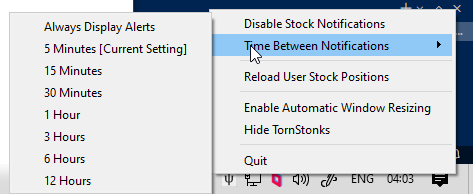
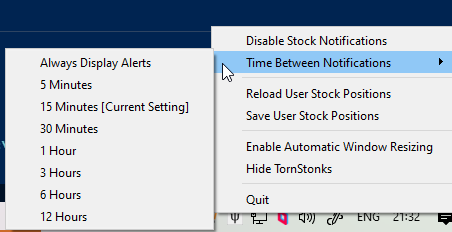
Fix taxation and total sale being incorrect

diff --git a/main.py b/main.py
@@ -6,6 +6,7 @@ import time
 import threading
 import pprint
 import csv
+import math
 
 from datetime import datetime, date
 from PyQt5 import QtWidgets
@@ -105,7 +106,8 @@ def get_latest_stocks():
 			App.update_table(ex, False)
 		#print("Successfully updated stocks from Tornsy")
 	else:
-		raise ValueError("Server returned error code that was not OK 200.")
+		write_notification_to_log("[WARNING] Server returned error code: " + tornsy_data.status_code)
+		App.failed_stock_update(ex)
 
 # Get initial data
 get_latest_stocks()
@@ -124,14 +126,14 @@ class App(QWidget):
 		self.left = 0
 		self.top = 0
 		self.width = 800
-		self.height = 1020
+		self.height = 200
 		self.setWindowIcon(QIcon("tornstonks.ico"))
 		self.update_timer = QTimer(self)
 		self.update_timer.timeout.connect(self.table_update)
 		self.update_timer.start(1000)
-		self.save_timer = QTimer(self)
-		self.save_timer.timeout.connect(self.save_data)
-		self.save_timer.start(60000)
+		#self.save_timer = QTimer(self)
+		#self.save_timer.timeout.connect(self.save_data)
+		#self.save_timer.start(60000)
 		self.tray_icon = QSystemTrayIcon(self)
 		self.statusBar = QStatusBar()
 		self.tray_icon.setIcon(QIcon("tornstonks.ico"))
@@ -238,6 +240,9 @@ class App(QWidget):
 		self.reload_user_stocks = QAction("Reload User Stock Positions")
 		self.reload_user_stocks.triggered.connect(self.reload_user_data)
 		self.tray_menu.addAction(self.reload_user_stocks)
+		self.save_user_stocks = QAction("Save User Stock Positions")
+		self.save_user_stocks.triggered.connect(self.save_data)
+		self.tray_menu.addAction(self.save_user_stocks)
 		self.tray_menu.addSeparator()
 
 		# Window Configuration
@@ -376,13 +381,14 @@ class App(QWidget):
 			"30m Ago",                  #5
 			"Gain/Loss %",              #6
 			"Purchase Total",           #7
-			"Pre Tax Gain/Loss",        #8
-			"Taxed Gain/Loss",          #9
+			"Total Gain/Loss",          #8
+			"Taxes Incurred",           #9
 			"Final Sale Value w/ Tax"]  #10
 		)
 		self.table_widget.move(0,0)
 		self.table_widget.setSizeAdjustPolicy(QtWidgets.QAbstractScrollArea.AdjustToContents)
 		self.table_widget.setUpdatesEnabled(True)
+		self.table_widget.setHorizontalScrollBarPolicy(1)
 		self.update_table(True)
 
 	def update_table(self, update_user_data):
@@ -444,9 +450,9 @@ class App(QWidget):
 						self.table_widget.setItem(y, 4, QTableWidgetItem("$"+str(item["price"])))
 						self.table_widget.setItem(y, 5, QTableWidgetItem("$"+str(item["interval"]["m30"]["price"])))
 						tax_res = float(user_data["shares"][y]) * float(item["price"])
-						self.table_widget.setItem(y, 8, QTableWidgetItem("$"+str("{:,.2f}".format((tax_res)-float(user_data["buy"][y])*float(user_data["shares"][y])))))
-						self.table_widget.setItem(y, 9, QTableWidgetItem("$"+str("{:,.2f}".format((tax_res * 0.999)-float(user_data["buy"][y])*float(user_data["shares"][y])))))
-						self.table_widget.setItem(y, 10, QTableWidgetItem("$"+str("{:,.2f}".format(tax_res * 0.999))))
+						self.table_widget.setItem(y, 8, QTableWidgetItem("$"+str("{:,}".format(math.floor(tax_res)-float(user_data["buy"][y])*float(user_data["shares"][y])))))
+						self.table_widget.setItem(y, 9, QTableWidgetItem("$"+str("{:,}".format(math.floor(tax_res-(tax_res * 0.999))))))
+						self.table_widget.setItem(y, 10, QTableWidgetItem("$"+str("{:,}".format(math.floor(tax_res * 0.999)))))
 			if not self.no_notification and y == (num_stonks - 1):
 				if self.not_recently_notified:
 					# This silences notifications when starting TornStonks
@@ -515,9 +521,9 @@ class App(QWidget):
 						self.table_widget.setItem(row, 6, QTableWidgetItem(str("{:.2f}".format(perc)) + "%"))
 						self.table_widget.setItem(row, 7, QTableWidgetItem("$"+str("{:,.2f}".format(float(user_data["shares"][row]) * float(user_data["buy"][row])))))
 						tax_res = float(user_data["shares"][row]) * curr_price
-						self.table_widget.setItem(row, 8, QTableWidgetItem("$"+str("{:,.2f}".format((tax_res)-float(user_data["buy"][row])*float(user_data["shares"][row])))))
-						self.table_widget.setItem(row, 9, QTableWidgetItem("$"+str("{:,.2f}".format((tax_res * 0.99)-float(user_data["buy"][row])*float(user_data["shares"][row])))))
-						self.table_widget.setItem(row, 10, QTableWidgetItem("$"+str("{:,.2f}".format(tax_res * 0.99))))
+						self.table_widget.setItem(row, 8, QTableWidgetItem("$"+str("{:,}".format(math.floor(tax_res-float(user_data["buy"][row])*float(user_data["shares"][row]))))))
+						self.table_widget.setItem(row, 9, QTableWidgetItem("$"+str("{:,}".format(math.floor(tax_res-(tax_res * 0.999))))))
+						self.table_widget.setItem(row, 10, QTableWidgetItem("$"+str("{:,}".format(math.floor(tax_res * 0.999)))))
 					else:
 						self.table_widget.setItem(row, 6, QTableWidgetItem("N/A"))
 				elif col == 1:
@@ -535,6 +541,9 @@ class App(QWidget):
 	@pyqtSlot()
 	def save_data(self):
 		save_user_data_csv()
+
+	def failed_stock_update(self):
+		self.tray_icon.showMessage("WARNING", "TornStonks failed to update from the Tornsy API, are you connected to the internet?", QIcon("tornnotstonks.ico"))
 
 def stop_app():
 	stop_run_continuously.set()

diff --git a/README.md b/README.md
@@ -65,6 +65,10 @@ This slideout menu will contain options to enable how long TornStonks stays sile
 
 This option reloads `user_positions.conf` which is included with this repo or binary version. This will reload all stocks "purchased" stored within it. Note: Stocks are considered "purchased" as in, you can use two instances of this tool to play a paper version of the market with wacky values, alongside the real stocks. **This option exists for people who prefer editing their stock data via an external editor.**
 
+* Save User Stock Positions
+
+This option replaces the automatic saving system, automatic saving is likely to return in some capacity in the near future.
+
 * Enable / Disable Automatic Window Resizing
 
 This option forces the window to match the spreadsheet view. This does not respect screen size. By default TornStocks only resizes to the content once on start up and is then disabled.
